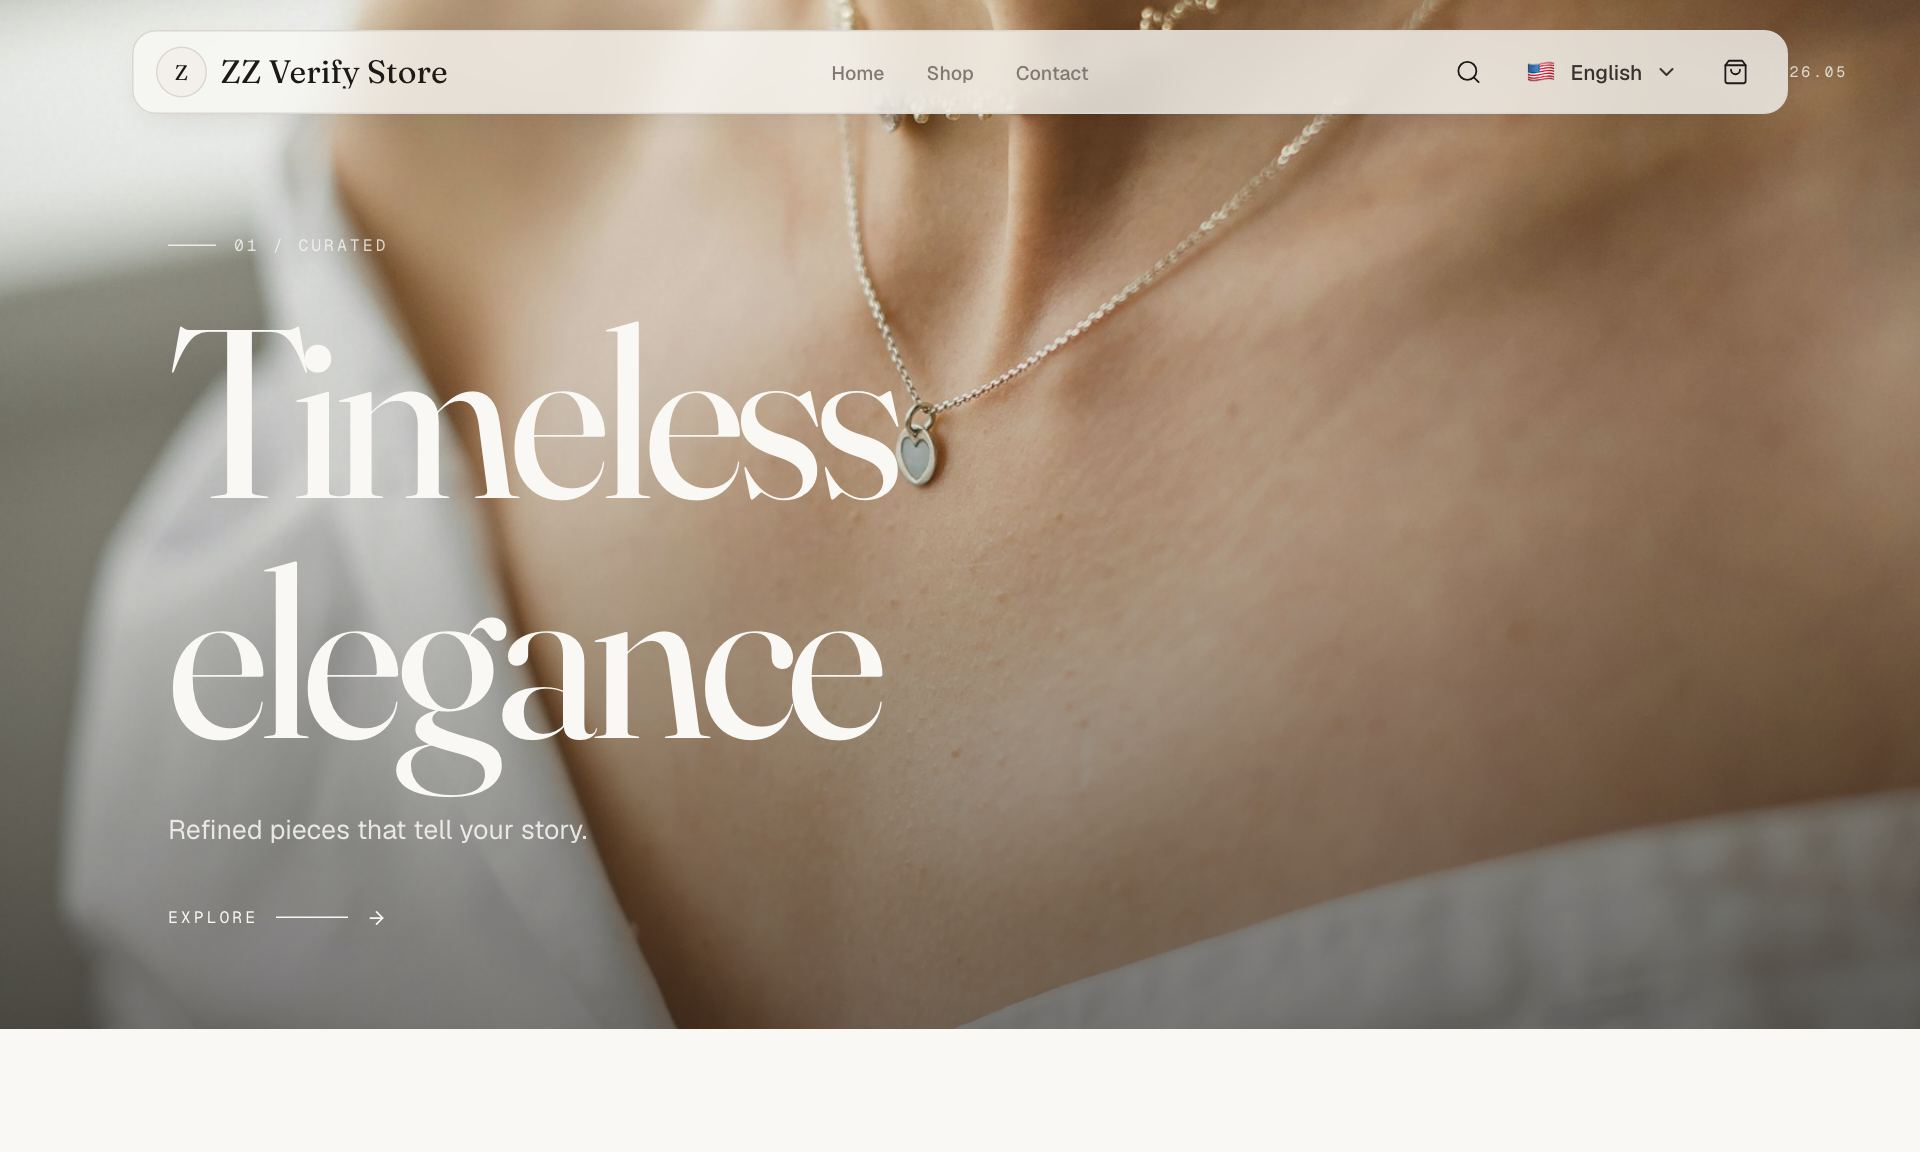
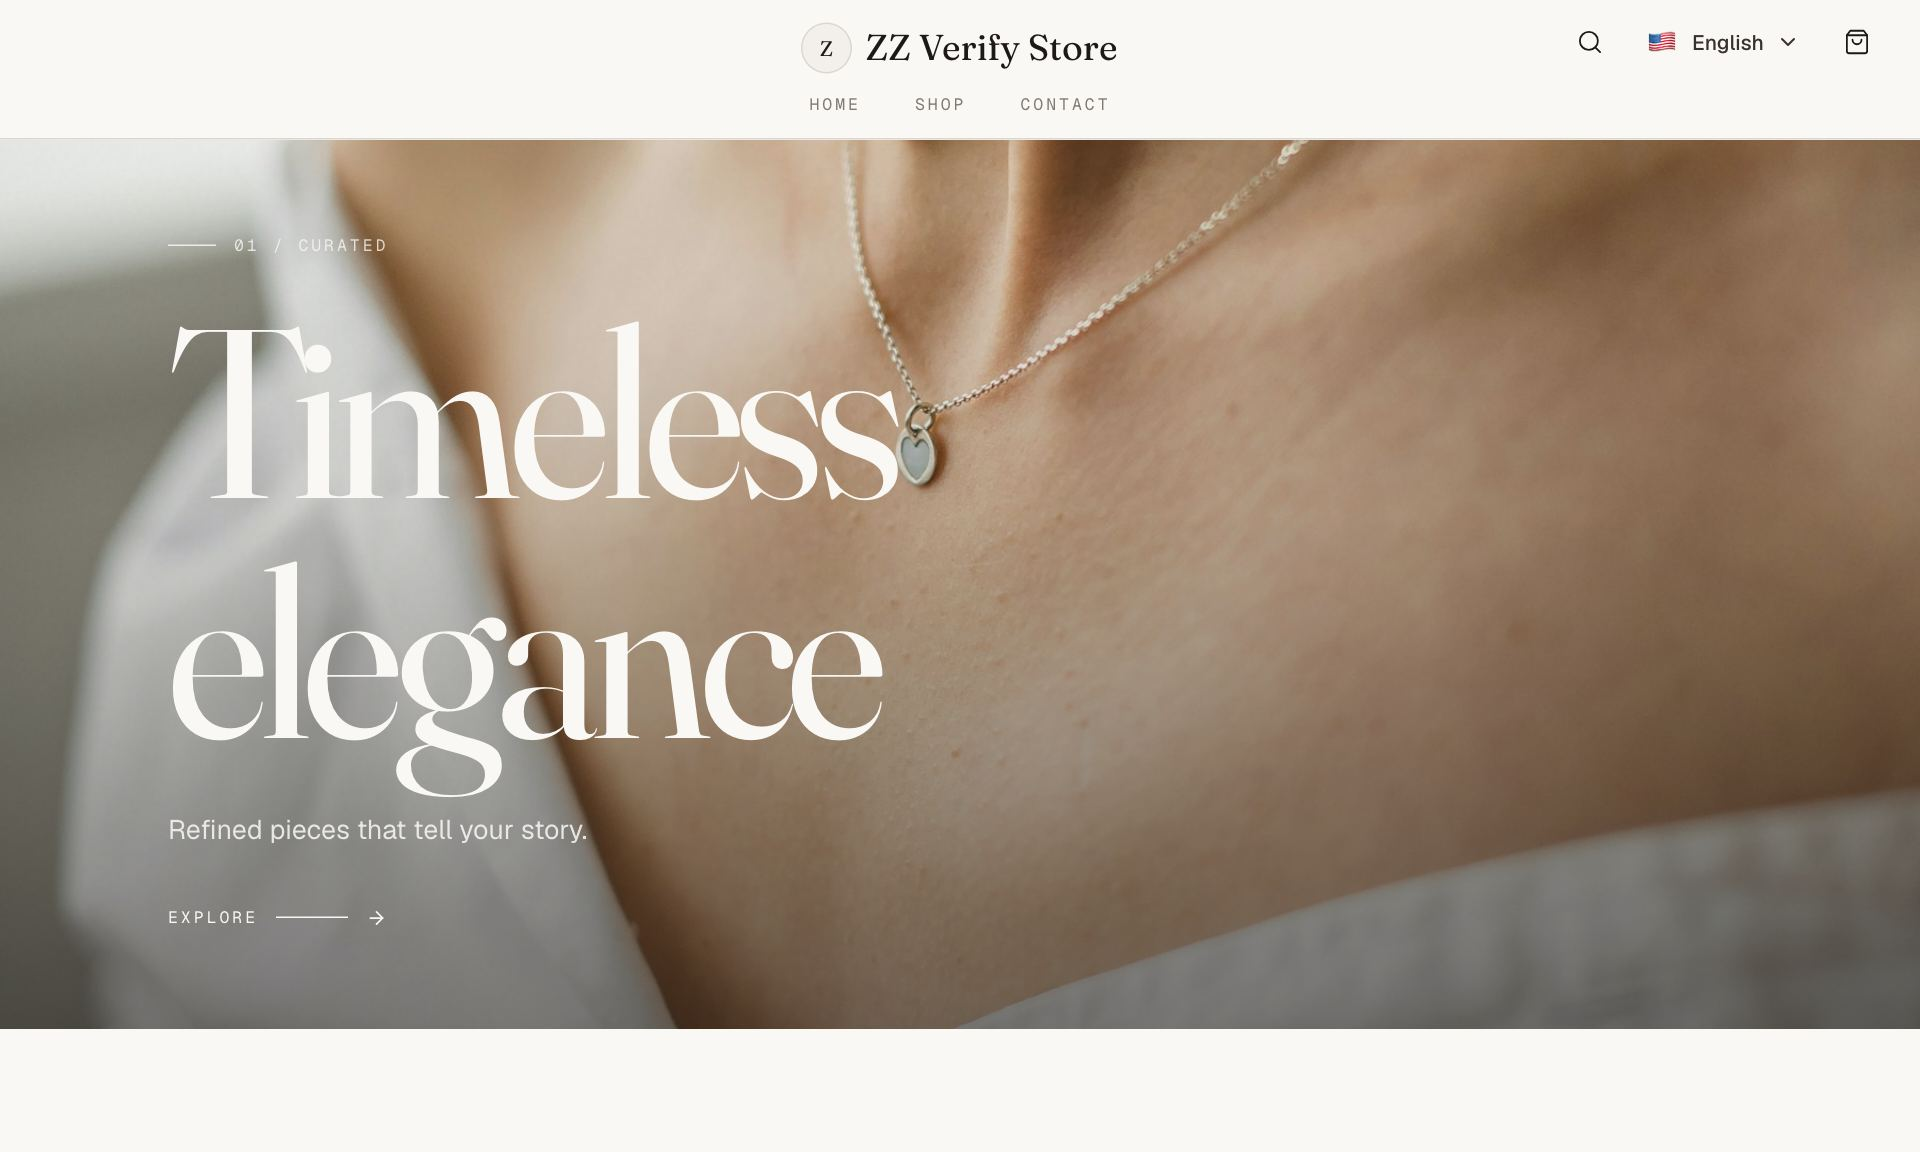
feat(theming): Élégant adopts the luxe chrome
Chrome spread now 1 editorial / 1 luxe / 2 classic / 1 playful — every theme
family has a distinct navbar/footer/card identity. Thumbnail regenerated.

Changed region(s): [[0.0938, 0.0, 1.0, 0.125], [0.0, 0.0, 0.125, 0.0625]]

diff --git a/src/sections/settings/store-themes.js b/src/sections/settings/store-themes.js
@@ -101,7 +101,7 @@ export const STORE_THEMES = [
     id: 'elegant',
     thumb: '/assets/themes/elegant.jpg',
     style: 'editorial',
-    structure: 'editorial',
+    structure: 'luxe',
     palette: 'violet',
     swatch: '#9A69CF',
     sections: [